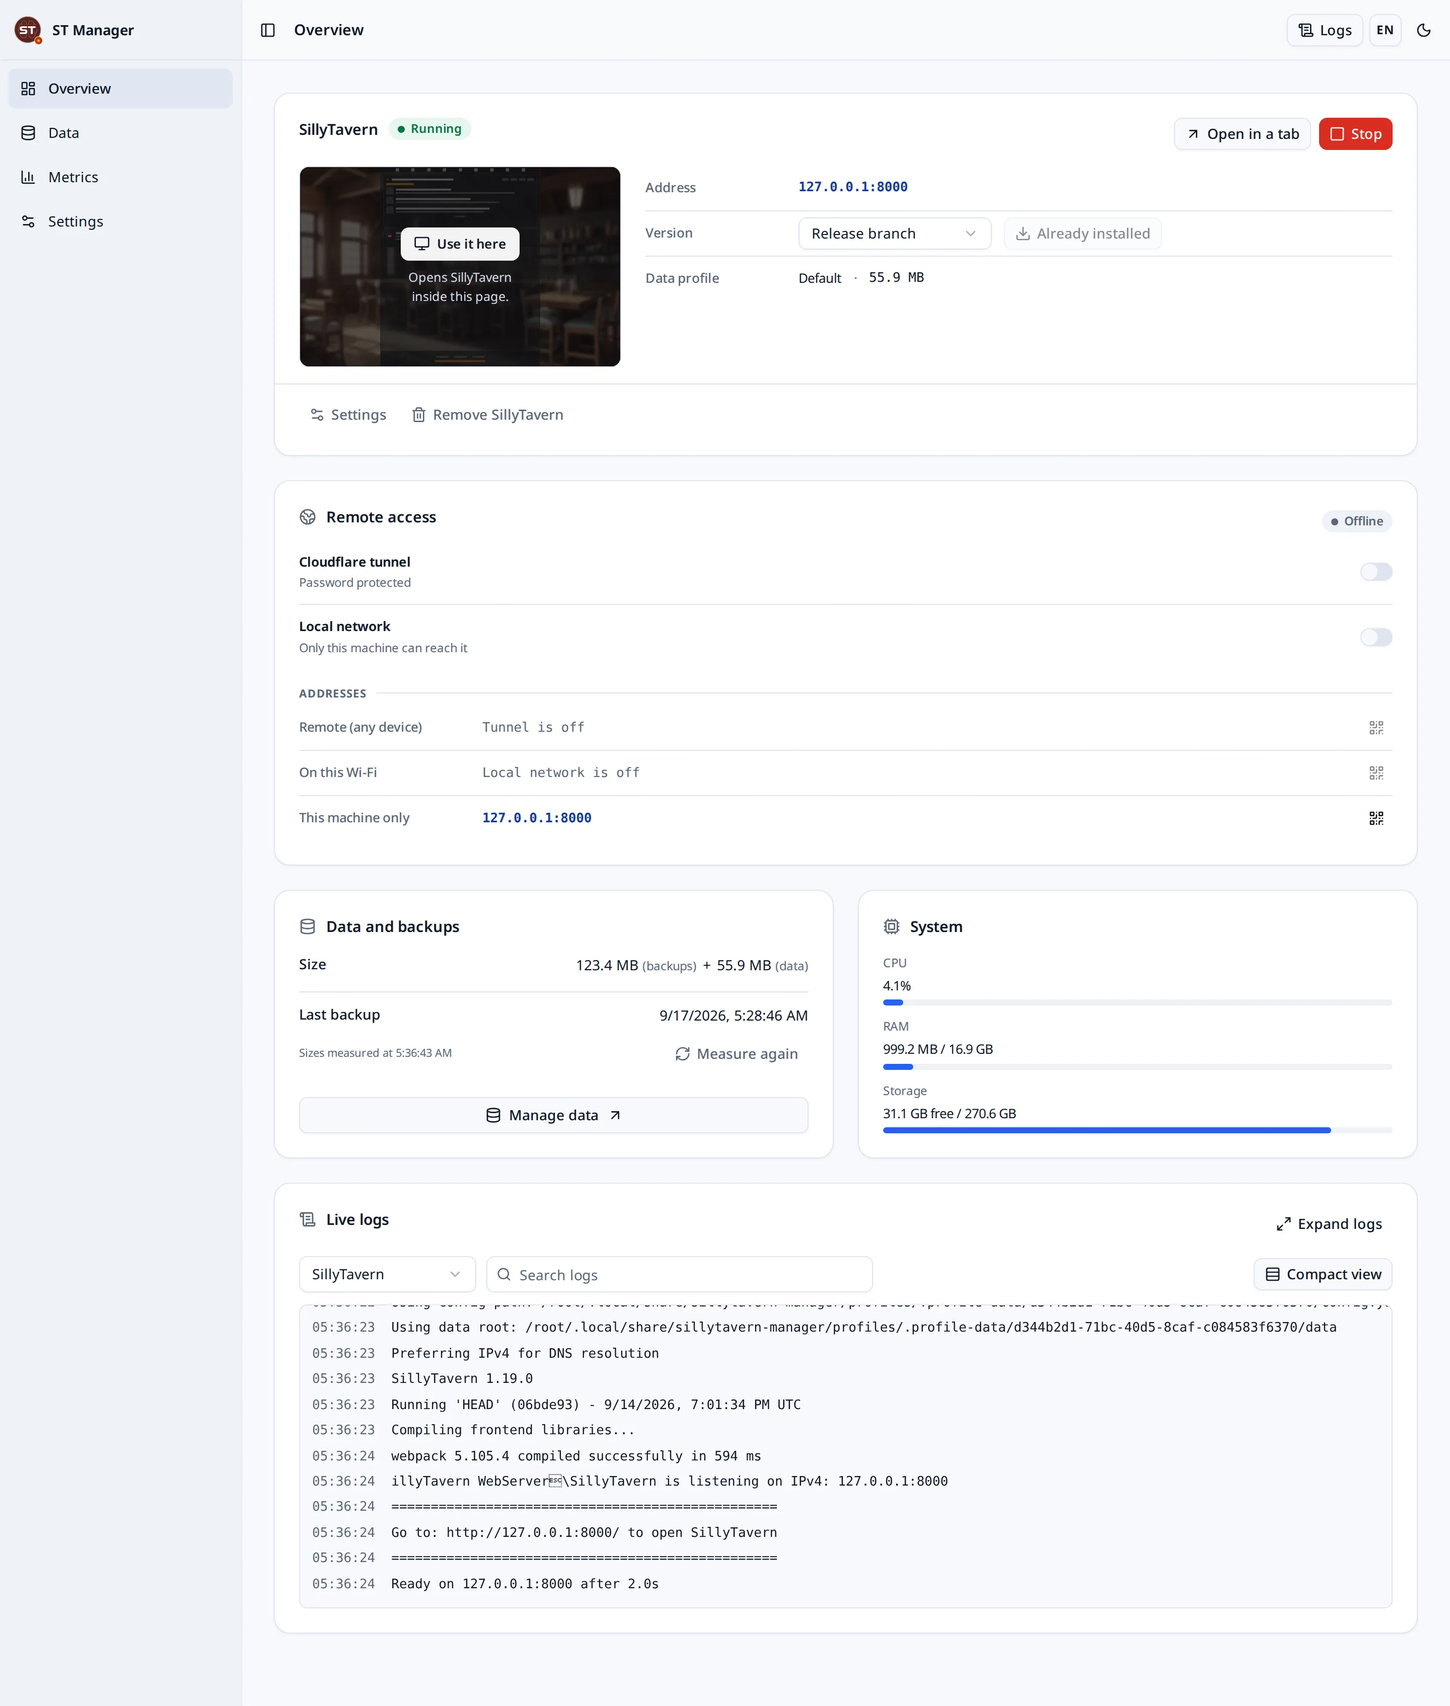
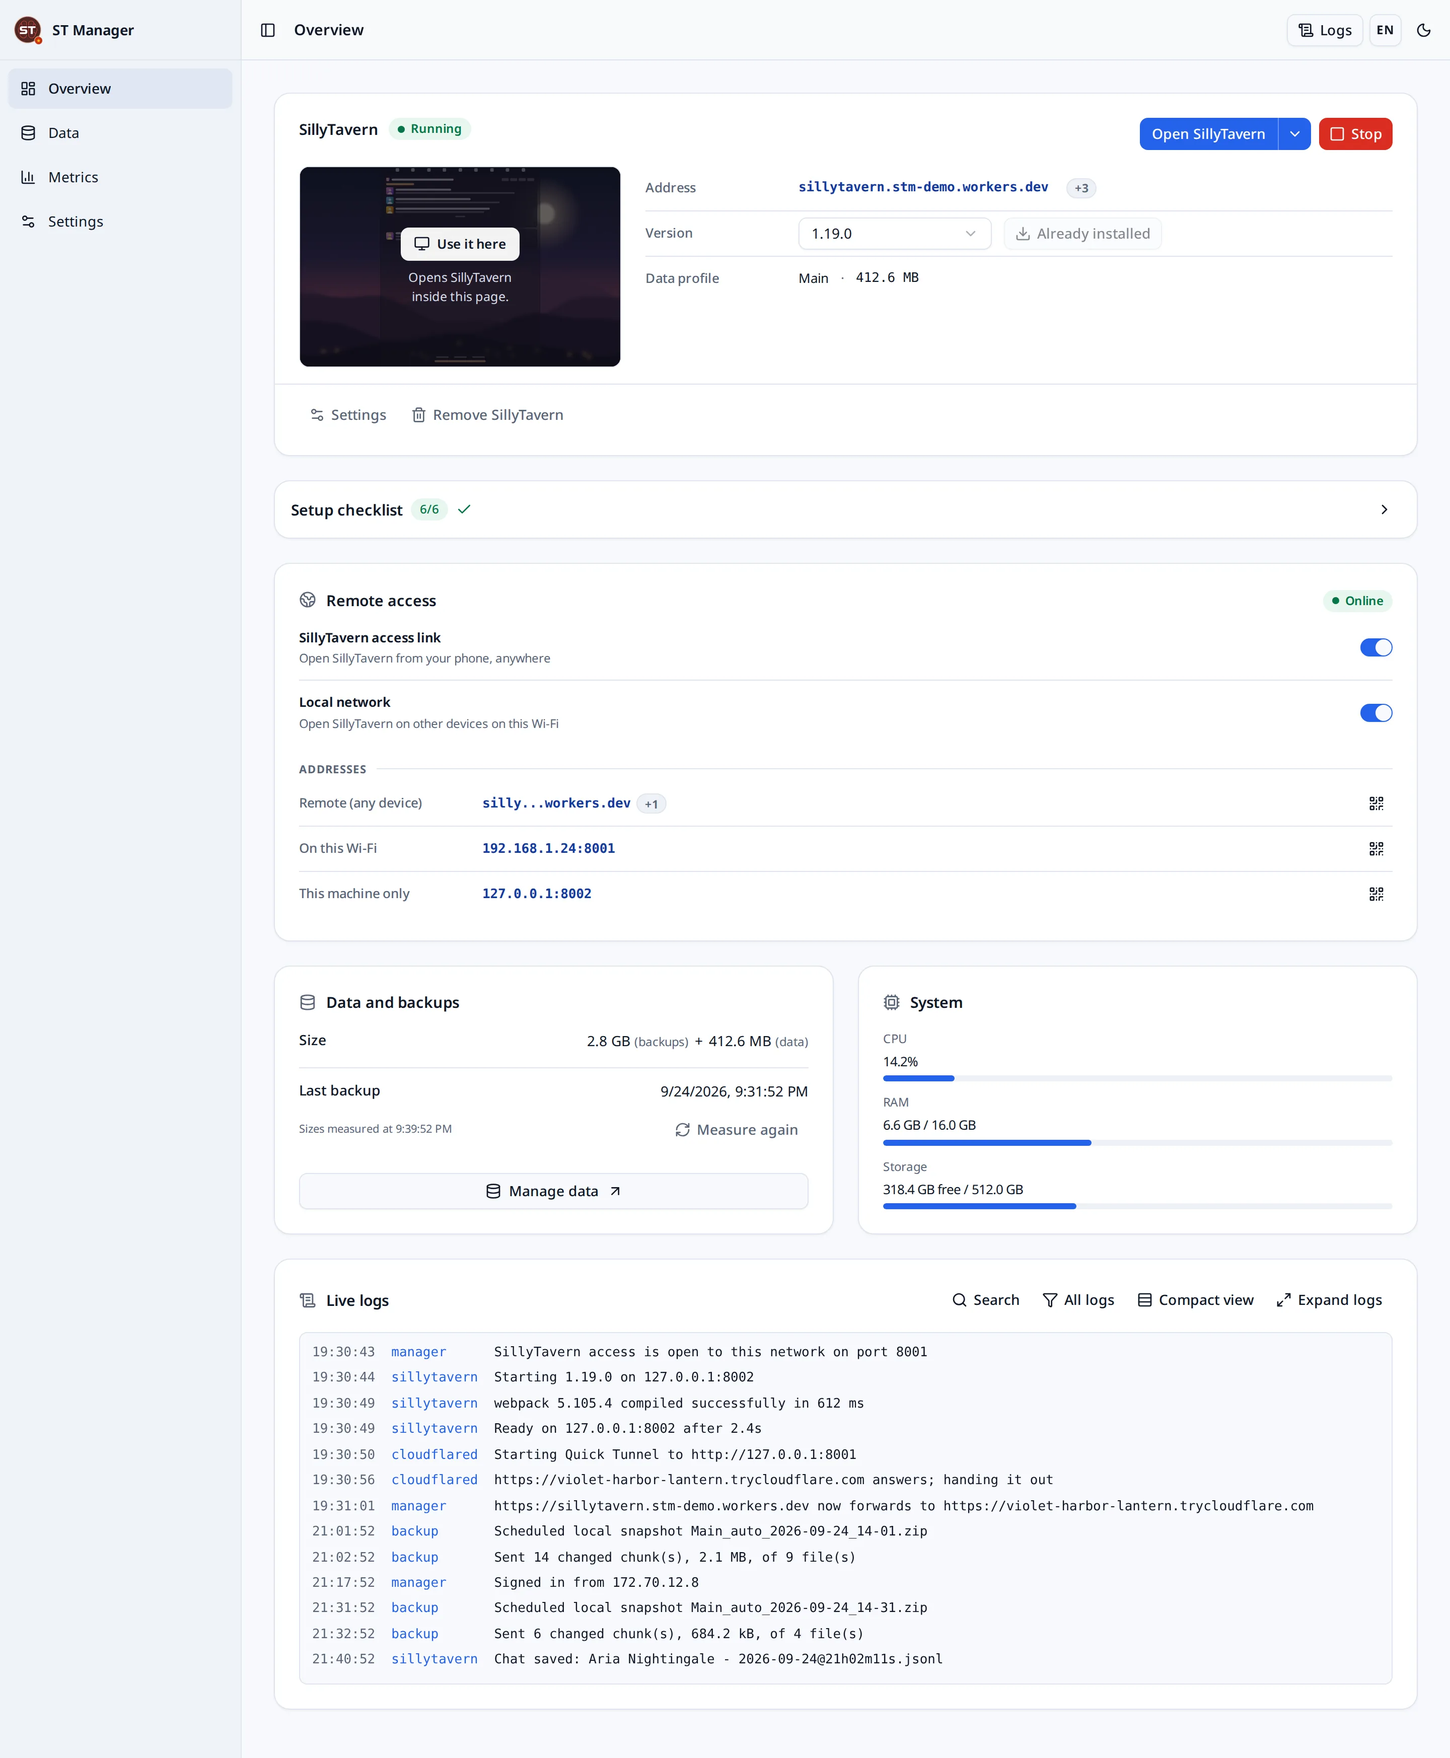
feat: new screenshots on phone and desktop, and a site that shows the right one
Every README screenshot is retaken against demo data - a machine a few
weeks into use, with backups, recovery points, a month of usage and a
running tunnel - in English and Vietnamese, light and dark. Each page now
has a phone shot beside its desktop one, and the README shows four of them
in a row under the desktop table.

The site shows the phone shot of the same page on a phone, not the
overview again on every page, and reserves each image's real size, read
from the file, so nothing jumps as the images arrive. The panel section is
one page at a time behind tabs on a wide screen, three phone shots on a
tablet and a strip to swipe on a phone; the hero's overview is cut to a
window that fades out.

The spacing that went missing in production came from inline style
attributes, which the site's own Content-Security-Policy refuses: the
note under the backup cards sat on them and the closing section was not
centred. Those are classes now. The port diagram lost the 40px a figure
brings with it and lines up with its table, the install cards keep their
links on one line, the hero glow no longer ends in a stripe on a phone,
the relay's Continue button is set in the site's typeface and its
address reads as a field.

In the panel, the backup interval menu is wide enough for "Every 30
minutes".

Claude-Session: https://claude.ai/code/session_01NgPExXvPSjrbDeWTqPJPC2

diff --git a/apps/site/public/assets/site.css b/apps/site/public/assets/site.css
@@ -189,10 +189,15 @@ html.dark [data-theme-icon="dark"] { display: grid; }
   border-radius: 10px;
   background: var(--primary);
   color: var(--primary-foreground);
+  /* A `<button>` does not inherit the page's face on its own, so the relay's
+     Continue was set in the system sans beside every link-button in Noto. */
+  font-family: inherit;
   font-size: 14.5px;
   font-weight: 620;
+  line-height: 1.2;
   text-decoration: none;
   white-space: nowrap;
+  cursor: pointer;
 }
 .button:hover { background: color-mix(in srgb, var(--primary) 88%, black); color: var(--primary-foreground); }
 .button svg { width: 17px; height: 17px; }
@@ -209,6 +214,10 @@ main > section + section { border-top: 1px solid var(--border); }
 @media (min-width: 640px) { main > section { padding-block: 76px; } }
 
 .section-head { max-width: 42rem; margin-bottom: 30px; }
+/* A note under a row of cards, which would otherwise sit flush against it. */
+.after-grid { margin-top: 14px; }
+.cta { text-align: center; }
+.cta .lede { max-width: 36rem; margin-inline: auto; }
 .eyebrow { margin: 0 0 8px; color: var(--primary); font-size: 12px; font-weight: 700; letter-spacing: 0.08em; text-transform: uppercase; }
 h1, h2, h3, h4 { letter-spacing: -0.02em; text-wrap: balance; }
 h2 { margin: 0 0 10px; font-size: clamp(24px, 3.4vw, 32px); line-height: 1.2; }
@@ -227,11 +236,21 @@ h3 { margin: 0 0 6px; font-size: 17px; }
   background:
     radial-gradient(42rem 24rem at 50% -4rem, color-mix(in srgb, var(--primary) 16%, transparent), transparent 70%),
     radial-gradient(32rem 20rem at 50% 105%, color-mix(in srgb, var(--primary) 8%, transparent), transparent 70%);
+  /* The lower glow is centred on this box's bottom edge and was cut off there
+     in a straight line - hidden behind the screenshot on a wide screen, and a
+     visible stripe across a phone's hero. Faded out instead. */
+  -webkit-mask-image: linear-gradient(to bottom, #000 55%, transparent);
+  mask-image: linear-gradient(to bottom, #000 55%, transparent);
 }
 .hero img.hero-mark { width: 78px; height: 78px; filter: drop-shadow(0 .5rem 1.25rem color-mix(in srgb, var(--primary) 30%, transparent)); }
 .hero h1 { margin: 20px 0 14px; font-size: clamp(30px, 5.6vw, 50px); line-height: 1.08; }
 .hero p.lede { max-width: 40rem; margin-inline: auto; font-size: clamp(16px, 2vw, 18px); }
 .hero-actions { display: flex; flex-wrap: wrap; justify-content: center; gap: 10px; margin-top: 26px; }
+/* On a phone the two buttons wrap onto two lines at two different widths; one
+   column of equal buttons reads as a choice rather than a stagger. */
+@media (max-width: 479px) {
+  .hero-actions { flex-direction: column; align-items: stretch; max-width: 22rem; margin-inline: auto; }
+}
 .hero-meta { display: flex; flex-wrap: wrap; justify-content: center; gap: 8px 18px; margin-top: 18px; color: var(--muted-foreground); font-size: 13px; }
 .hero-meta span { display: inline-flex; align-items: center; gap: 6px; }
 .hero-meta svg { width: 15px; height: 15px; }
@@ -245,19 +264,94 @@ h3 { margin: 0 0 6px; font-size: 17px; }
  */
 .shot { margin: 42px 0 0; border: 1px solid var(--border); border-radius: 14px; overflow: hidden; background: var(--card); box-shadow: var(--elevation-3); }
 .shot img { display: none; width: 100%; }
-.shot img.wide.light { display: block; }
-html.dark .shot img.wide.light { display: none; }
-html.dark .shot img.wide.dark { display: block; }
+html:not(.dark) .shot img.wide.light, html.dark .shot img.wide.dark { display: block; }
+
+/* A phone frame: the shape a narrow shot is shown in wherever it is shown. */
+.shot img.narrow { max-width: 19rem; margin-inline: auto; border: 1px solid var(--border); border-radius: 18px; box-shadow: var(--elevation-3); }
 
 @media (max-width: 639px) {
   /* A desktop panel at 390px is a grey rectangle. Where the same page was
      photographed on a phone, that is the honest picture to show. */
-  .shot.has-narrow { border: 0; border-radius: 0; background: transparent; box-shadow: none; }
-  .shot.has-narrow img { max-width: 19rem; margin-inline: auto; border: 1px solid var(--border); border-radius: 18px; box-shadow: var(--elevation-3); }
-  .shot.has-narrow img.wide { display: none; }
-  .shot.has-narrow img.narrow.light { display: block; }
-  html.dark .shot.has-narrow img.narrow.light { display: none; }
-  html.dark .shot.has-narrow img.narrow.dark { display: block; }
+  .shot.has-narrow { border: 0; border-radius: 0; background: transparent; box-shadow: none; overflow: visible; }
+  html:not(.dark) .shot.has-narrow img.wide.light, html.dark .shot.has-narrow img.wide.dark { display: none; }
+  html:not(.dark) .shot.has-narrow img.narrow.light, html.dark .shot.has-narrow img.narrow.dark { display: block; }
+}
+
+/*
+ * The hero's overview, cut to a window.
+ *
+ * The whole overview is a page and a half tall, which put the first section
+ * of the site two screens below the fold. The frame stops at about a screen
+ * and the page fades into the panel's own background there, so it reads as a
+ * window onto the panel rather than a picture that was cropped.
+ */
+@media (min-width: 640px) {
+  .hero-shot { position: relative; max-height: 48rem; }
+  .hero-shot::after { content: ""; position: absolute; inset: auto 0 0; height: 8rem; background: linear-gradient(to bottom, transparent, var(--background)); pointer-events: none; }
+}
+
+/*
+ * The panel, three pages of it.
+ *
+ * On a wide screen one page at a time, full width and cut to a window like
+ * the hero, with a tab for each: three desktop shots side by side are a third
+ * of a desktop each, and a third of a desktop is too small to read. The tabs
+ * are radio buttons and labels, so they work with scripting off like the rest
+ * of the site. Below that width the phone shots of the same pages - three
+ * columns on a tablet, and on a phone a strip to swipe through rather than
+ * three screens of scrolling.
+ */
+.screen-pick { position: absolute; opacity: 0; pointer-events: none; }
+.screen-tabs { display: none; }
+.screen-list { display: grid; gap: 22px; }
+.screen { margin: 0; display: grid; gap: 14px; align-content: start; }
+.screen .shot { margin: 0; }
+.screen figcaption { color: var(--muted-foreground); font-size: 14px; text-align: center; }
+.screen figcaption strong { color: var(--foreground); font-weight: 650; }
+.screen figcaption strong::after { content: " ·"; color: var(--muted-foreground); font-weight: 400; }
+
+@media (min-width: 960px) {
+  .screen-tabs { display: inline-flex; gap: 4px; margin-bottom: 18px; padding: 4px; border: 1px solid var(--border); border-radius: 12px; background: var(--muted); }
+  .screen-tabs label { padding: 7px 18px; border-radius: 9px; color: var(--muted-foreground); font-size: 14px; font-weight: 600; cursor: pointer; }
+  .screen-tabs label:hover { color: var(--foreground); }
+  .screen-list .screen { display: none; }
+  .screen .shot { position: relative; max-height: 44rem; }
+  .screen .shot::after { content: ""; position: absolute; inset: auto 0 0; height: 7rem; background: linear-gradient(to bottom, transparent, var(--background)); pointer-events: none; }
+  .screen-pick:nth-of-type(1):checked ~ .screen-list .screen:nth-child(1),
+  .screen-pick:nth-of-type(2):checked ~ .screen-list .screen:nth-child(2),
+  .screen-pick:nth-of-type(3):checked ~ .screen-list .screen:nth-child(3),
+  .screen-pick:nth-of-type(4):checked ~ .screen-list .screen:nth-child(4) { display: grid; }
+  .screen-pick:nth-of-type(1):checked ~ .screen-tabs label:nth-child(1),
+  .screen-pick:nth-of-type(2):checked ~ .screen-tabs label:nth-child(2),
+  .screen-pick:nth-of-type(3):checked ~ .screen-tabs label:nth-child(3),
+  .screen-pick:nth-of-type(4):checked ~ .screen-tabs label:nth-child(4) { background: var(--card); color: var(--foreground); box-shadow: var(--elevation-1); }
+  .screen-pick:nth-of-type(1):focus-visible ~ .screen-tabs label:nth-child(1),
+  .screen-pick:nth-of-type(2):focus-visible ~ .screen-tabs label:nth-child(2),
+  .screen-pick:nth-of-type(3):focus-visible ~ .screen-tabs label:nth-child(3),
+  .screen-pick:nth-of-type(4):focus-visible ~ .screen-tabs label:nth-child(4) { outline: 2px solid var(--ring); outline-offset: 2px; }
+}
+/* No tabs to drive below that width, so no focus stops that go nowhere. */
+@media (max-width: 959px) { .screen-pick { display: none; } }
+@media (min-width: 640px) and (max-width: 959px) {
+  .screen-list { grid-template-columns: repeat(3, minmax(0, 1fr)); }
+  .screen .shot.has-narrow { border: 0; border-radius: 0; background: transparent; box-shadow: none; overflow: visible; }
+  html:not(.dark) .screen .shot img.wide.light, html.dark .screen .shot img.wide.dark { display: none; }
+  html:not(.dark) .screen .shot img.narrow.light, html.dark .screen .shot img.narrow.dark { display: block; }
+}
+@media (max-width: 639px) {
+  .screen-list {
+    display: flex;
+    gap: 16px;
+    overflow-x: auto;
+    scroll-snap-type: x mandatory;
+    margin-inline: calc(var(--gutter) * -1);
+    padding: 4px var(--gutter) 28px;
+    scroll-padding-inline: var(--gutter);
+    scrollbar-width: none;
+  }
+  .screen-list::-webkit-scrollbar { display: none; }
+  .screen { flex: 0 0 min(76%, 17rem); scroll-snap-align: center; }
+  .screen .shot img.narrow { box-shadow: var(--elevation-2); }
 }
 
 /* ---- cards ----------------------------------------------------------- */
@@ -273,14 +367,20 @@ html.dark .shot img.wide.dark { display: block; }
 .card-icon { display: grid; place-items: center; width: 36px; height: 36px; margin-bottom: 14px; border-radius: 10px; background: color-mix(in srgb, var(--primary) 12%, transparent); color: var(--primary); }
 .card-icon svg { width: 19px; height: 19px; }
 
-a.card { display: block; color: inherit; text-decoration: none; transition: border-color .15s ease, transform .15s ease; }
+/* A column, so the "guide" link sits on the bottom edge of every card and the
+   links in a row line up however long each card's sentence is. */
+a.card { display: flex; flex-direction: column; color: inherit; text-decoration: none; transition: border-color .15s ease, transform .15s ease; }
 a.card:hover { border-color: color-mix(in srgb, var(--primary) 50%, var(--border)); color: inherit; }
-a.card .card-go { display: inline-flex; align-items: center; gap: 6px; margin-top: 12px; color: var(--link); font-size: 13px; font-weight: 620; }
+a.card .card-go { display: inline-flex; align-self: flex-start; align-items: center; gap: 6px; margin-top: auto; padding-top: 14px; color: var(--link); font-size: 13px; font-weight: 620; }
 a.card .card-go svg { width: 14px; height: 14px; }
 
 /* ---- diagram / table ------------------------------------------------- */
 
-.figure { padding: 22px; border: 1px solid var(--border); border-radius: var(--radius); background: var(--card); }
+/* `margin: 0` because a `<figure>` comes with 40px either side, which is what
+   pushed the port diagram in from the column edge and out of line with the
+   heading above it and the table beside it. */
+.figure { align-self: start; margin: 0; padding: 22px; border: 1px solid var(--border); border-radius: var(--radius); background: var(--card); }
+.how-side { align-content: start; }
 .figure svg { display: block; width: 100%; height: auto; }
 .figure figcaption { margin-top: 14px; color: var(--muted-foreground); font-size: 13px; text-align: center; }
 
@@ -352,6 +452,8 @@ tbody tr:last-child td { border-bottom: 0; }
   .docs-toc { max-height: 15rem; overflow-y: auto; padding: 18px 20px; border: 1px solid var(--border); border-radius: var(--radius); background: var(--card); }
 }
 .docs-toc-title { margin: 0 0 12px; color: var(--muted-foreground); font-size: 11.5px; font-weight: 700; letter-spacing: .08em; text-transform: uppercase; }
+.docs-toc-next { margin-top: 22px; }
+.docs-toc a[aria-current="page"] { background: var(--accent); color: var(--foreground); font-weight: 600; }
 .docs-toc ul { margin: 0; padding: 0; list-style: none; display: grid; gap: 1px; }
 .docs-toc > ul > li > a { display: block; padding: 5px 10px; margin-inline-start: -10px; border-radius: 7px; color: var(--muted-foreground); text-decoration: none; }
 .docs-toc a:hover { background: var(--accent); color: var(--foreground); }
@@ -439,6 +541,8 @@ tbody tr:last-child td { border-bottom: 0; }
 .relay-main h1 { margin: 0 0 8px; font-size: 22px; letter-spacing: -0.01em; text-wrap: balance; }
 .relay-main p { margin: 0 0 8px; color: var(--muted-foreground); font-size: 14px; text-wrap: balance; }
 .relay-card { margin-top: 20px; padding: 22px; border: 1px solid var(--border); border-radius: 14px; background: var(--card); box-shadow: var(--elevation-2); }
-.relay-card code { display: block; font-size: 15px; overflow-wrap: anywhere; }
+/* The address is the one thing on the card to check, so it is set apart as a
+   field rather than left floating as a line of text. */
+.relay-card code { display: block; padding: 10px 12px; border: 1px solid var(--border); border-radius: 10px; background: var(--muted); font-size: 14.5px; line-height: 1.5; overflow-wrap: anywhere; }
 .relay-card .relay-warn { margin: 14px 0 0; }
 .relay-card .button { margin-top: 16px; width: 100%; justify-content: center; }

diff --git a/apps/manager-panel/src/App.tsx b/apps/manager-panel/src/App.tsx
@@ -5006,7 +5006,7 @@ function DataPage({ t, locale, fail, catalog, csrfToken, profiles, activeProfile
               room for a label is what pushed the menu to a line of its own. */}
           {backupSchedule.intervalMinutes > 0 ? <DetailRow label={t('console.localScheduleEvery')} className="[&>div:first-child]:basis-24">
             <Select value={localChoice?.id ?? CUSTOM_CHOICE} onValueChange={(id) => { const choice = LOCAL_BACKUP_CHOICES.find((item) => item.id === id); if (choice) void saveBackupSchedule(choice.intervalMinutes); }} disabled={scheduleSaving}>
-              <SelectTrigger size="sm" className="w-40" aria-label={t('console.localScheduleEvery')}><SelectValue /></SelectTrigger>
+              <SelectTrigger size="sm" className="w-auto min-w-40" aria-label={t('console.localScheduleEvery')}><SelectValue /></SelectTrigger>
               <SelectContent>
                 {LOCAL_BACKUP_CHOICES.map((choice) => <SelectItem key={choice.id} value={choice.id}>{t(choice.label)}</SelectItem>)}
                 {localChoice ? null : <SelectItem value={CUSTOM_CHOICE} disabled>{t('console.everyMinutes', { minutes: backupSchedule.intervalMinutes })}</SelectItem>}

diff --git a/README.md b/README.md
@@ -246,17 +246,17 @@ The manager password and the SillyTavern password are two different things. The 
 
 ## Screenshots
 
-Every shot below follows your own system theme, light or dark.
+Every shot below is taken with demo data and follows your own system theme, light or dark.
 
 <table>
 <tr>
-<td width="50%">
+<td width="50%" valign="top">
 <picture>
   <source media="(prefers-color-scheme: dark)" srcset=".github/screenshots/en/data-dark.webp">
   <img src=".github/screenshots/en/data-light.webp" alt="Data page with profiles, local backups and Cloudflare R2">
 </picture>
 </td>
-<td width="50%">
+<td width="50%" valign="top">
 <picture>
   <source media="(prefers-color-scheme: dark)" srcset=".github/screenshots/en/metrics-dark.webp">
   <img src=".github/screenshots/en/metrics-light.webp" alt="Metrics page with requests, tokens, cache hits and latency">
@@ -268,13 +268,13 @@ Every shot below follows your own system theme, light or dark.
 <td><b>Metrics</b> — requests, tokens, cache hits and latency, per day, provider and model.</td>
 </tr>
 <tr>
-<td>
+<td valign="top">
 <picture>
   <source media="(prefers-color-scheme: dark)" srcset=".github/screenshots/en/settings-dark.webp">
   <img src=".github/screenshots/en/settings-light.webp" alt="Settings page with security and SillyTavern configuration">
 </picture>
 </td>
-<td>
+<td valign="top">
 <picture>
   <source media="(prefers-color-scheme: dark)" srcset=".github/screenshots/en/sign-in-dark.webp">
   <img src=".github/screenshots/en/sign-in-light.webp" alt="The manager sign-in screen">
@@ -287,13 +287,37 @@ Every shot below follows your own system theme, light or dark.
 </tr>
 </table>
 
-<div align="center">
+<table>
+<tr>
+<td width="25%" valign="top">
 <picture>
-  <source media="(prefers-color-scheme: dark)" srcset=".github/screenshots/en/mobile-dark.webp">
-  <img src=".github/screenshots/en/mobile-light.webp" alt="The overview page on a phone" width="320">
+  <source media="(prefers-color-scheme: dark)" srcset=".github/screenshots/en/overview-mobile-dark.webp">
+  <img src=".github/screenshots/en/overview-mobile-light.webp" alt="The overview page on a phone">
 </picture>
-<p><b>On a phone</b> — the same panel, with the navigation moved to the bottom.</p>
-</div>
+</td>
+<td width="25%" valign="top">
+<picture>
+  <source media="(prefers-color-scheme: dark)" srcset=".github/screenshots/en/data-mobile-dark.webp">
+  <img src=".github/screenshots/en/data-mobile-light.webp" alt="The data page on a phone">
+</picture>
+</td>
+<td width="25%" valign="top">
+<picture>
+  <source media="(prefers-color-scheme: dark)" srcset=".github/screenshots/en/metrics-mobile-dark.webp">
+  <img src=".github/screenshots/en/metrics-mobile-light.webp" alt="The metrics page on a phone">
+</picture>
+</td>
+<td width="25%" valign="top">
+<picture>
+  <source media="(prefers-color-scheme: dark)" srcset=".github/screenshots/en/settings-mobile-dark.webp">
+  <img src=".github/screenshots/en/settings-mobile-light.webp" alt="The settings page on a phone">
+</picture>
+</td>
+</tr>
+<tr>
+<td colspan="4" align="center"><b>On a phone</b> — the same panel, with the navigation moved to the bottom.</td>
+</tr>
+</table>
 
 ## How it works
 
